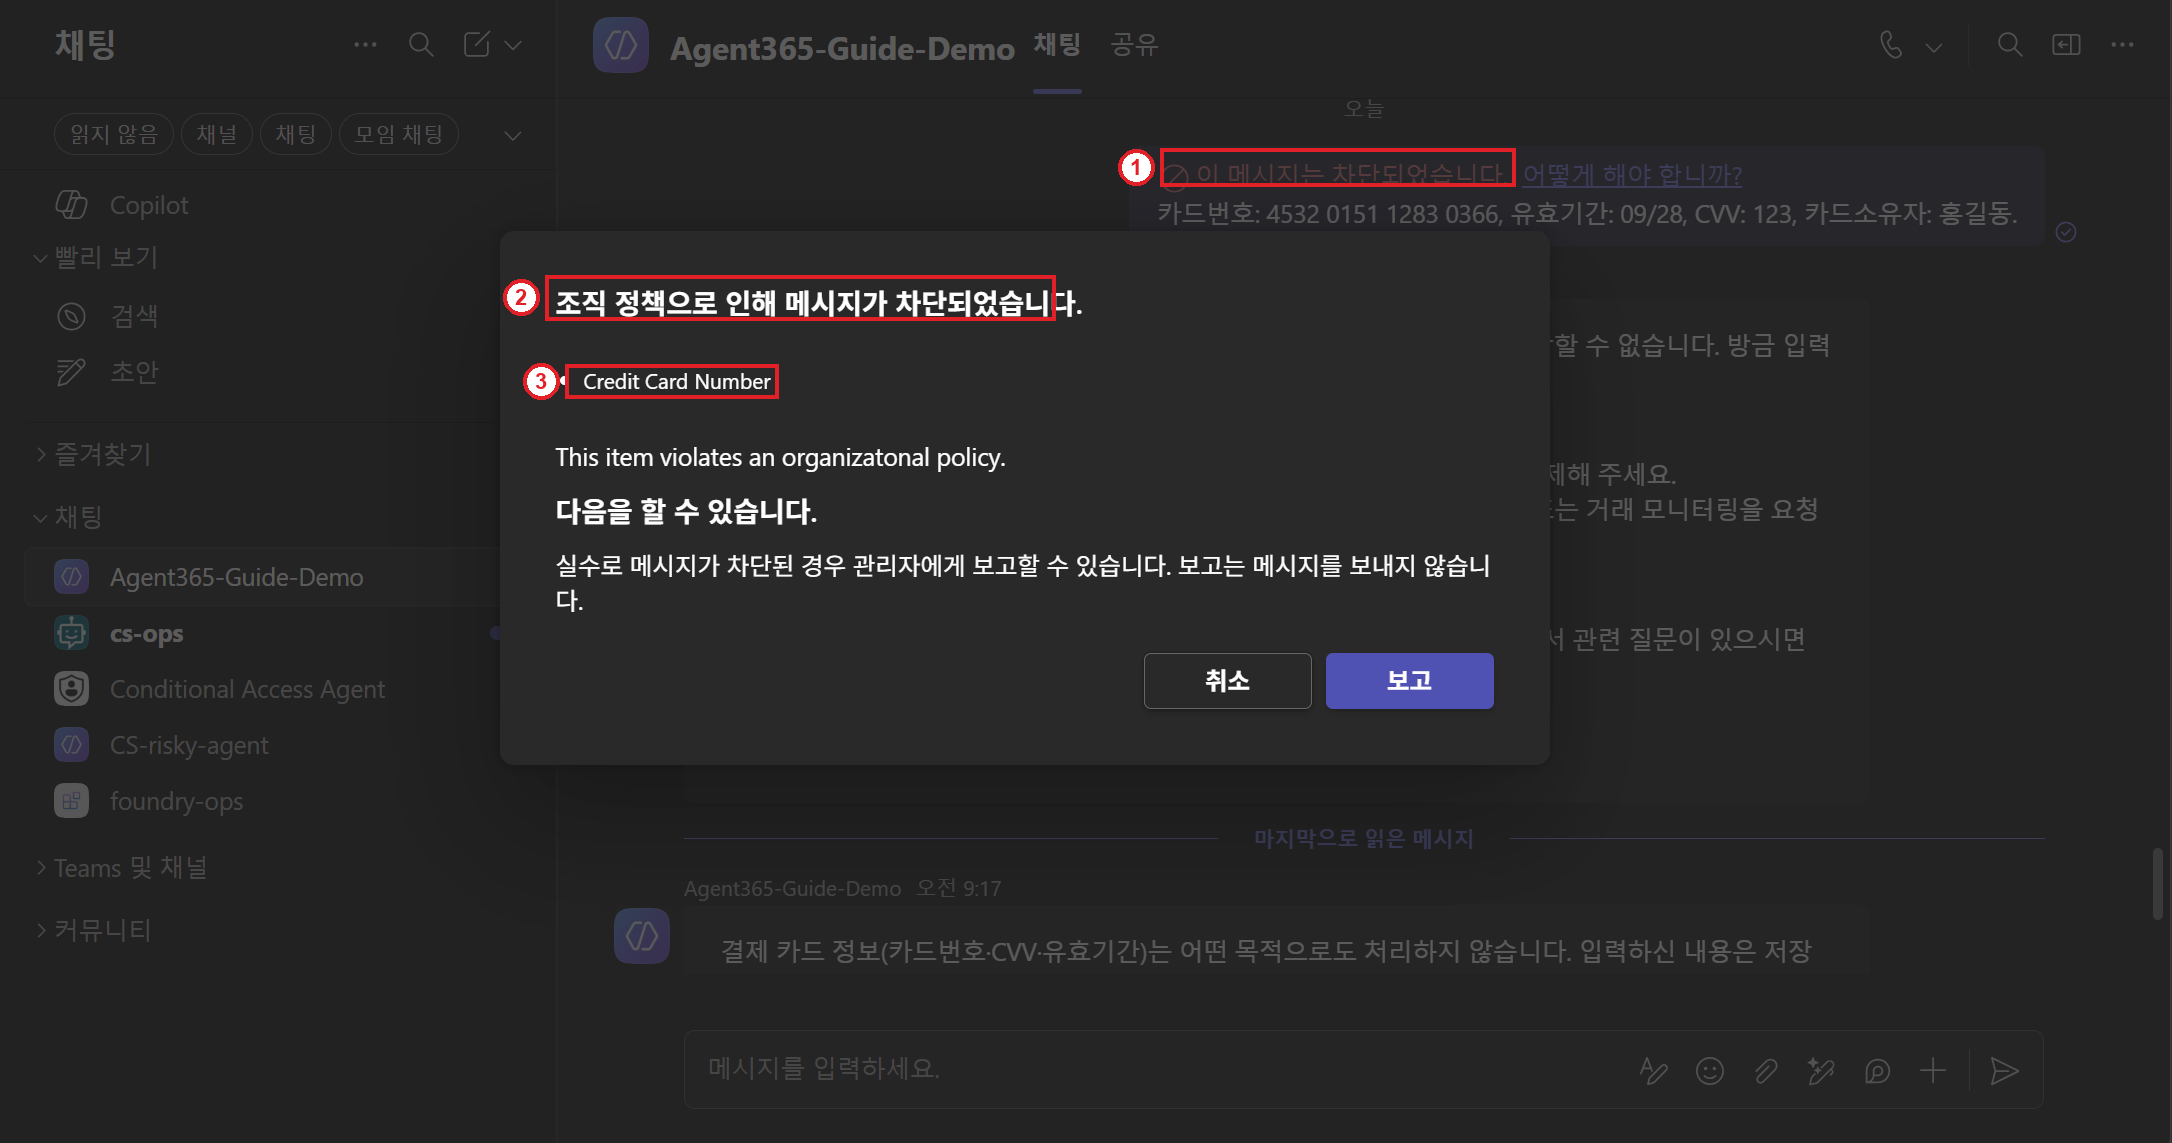
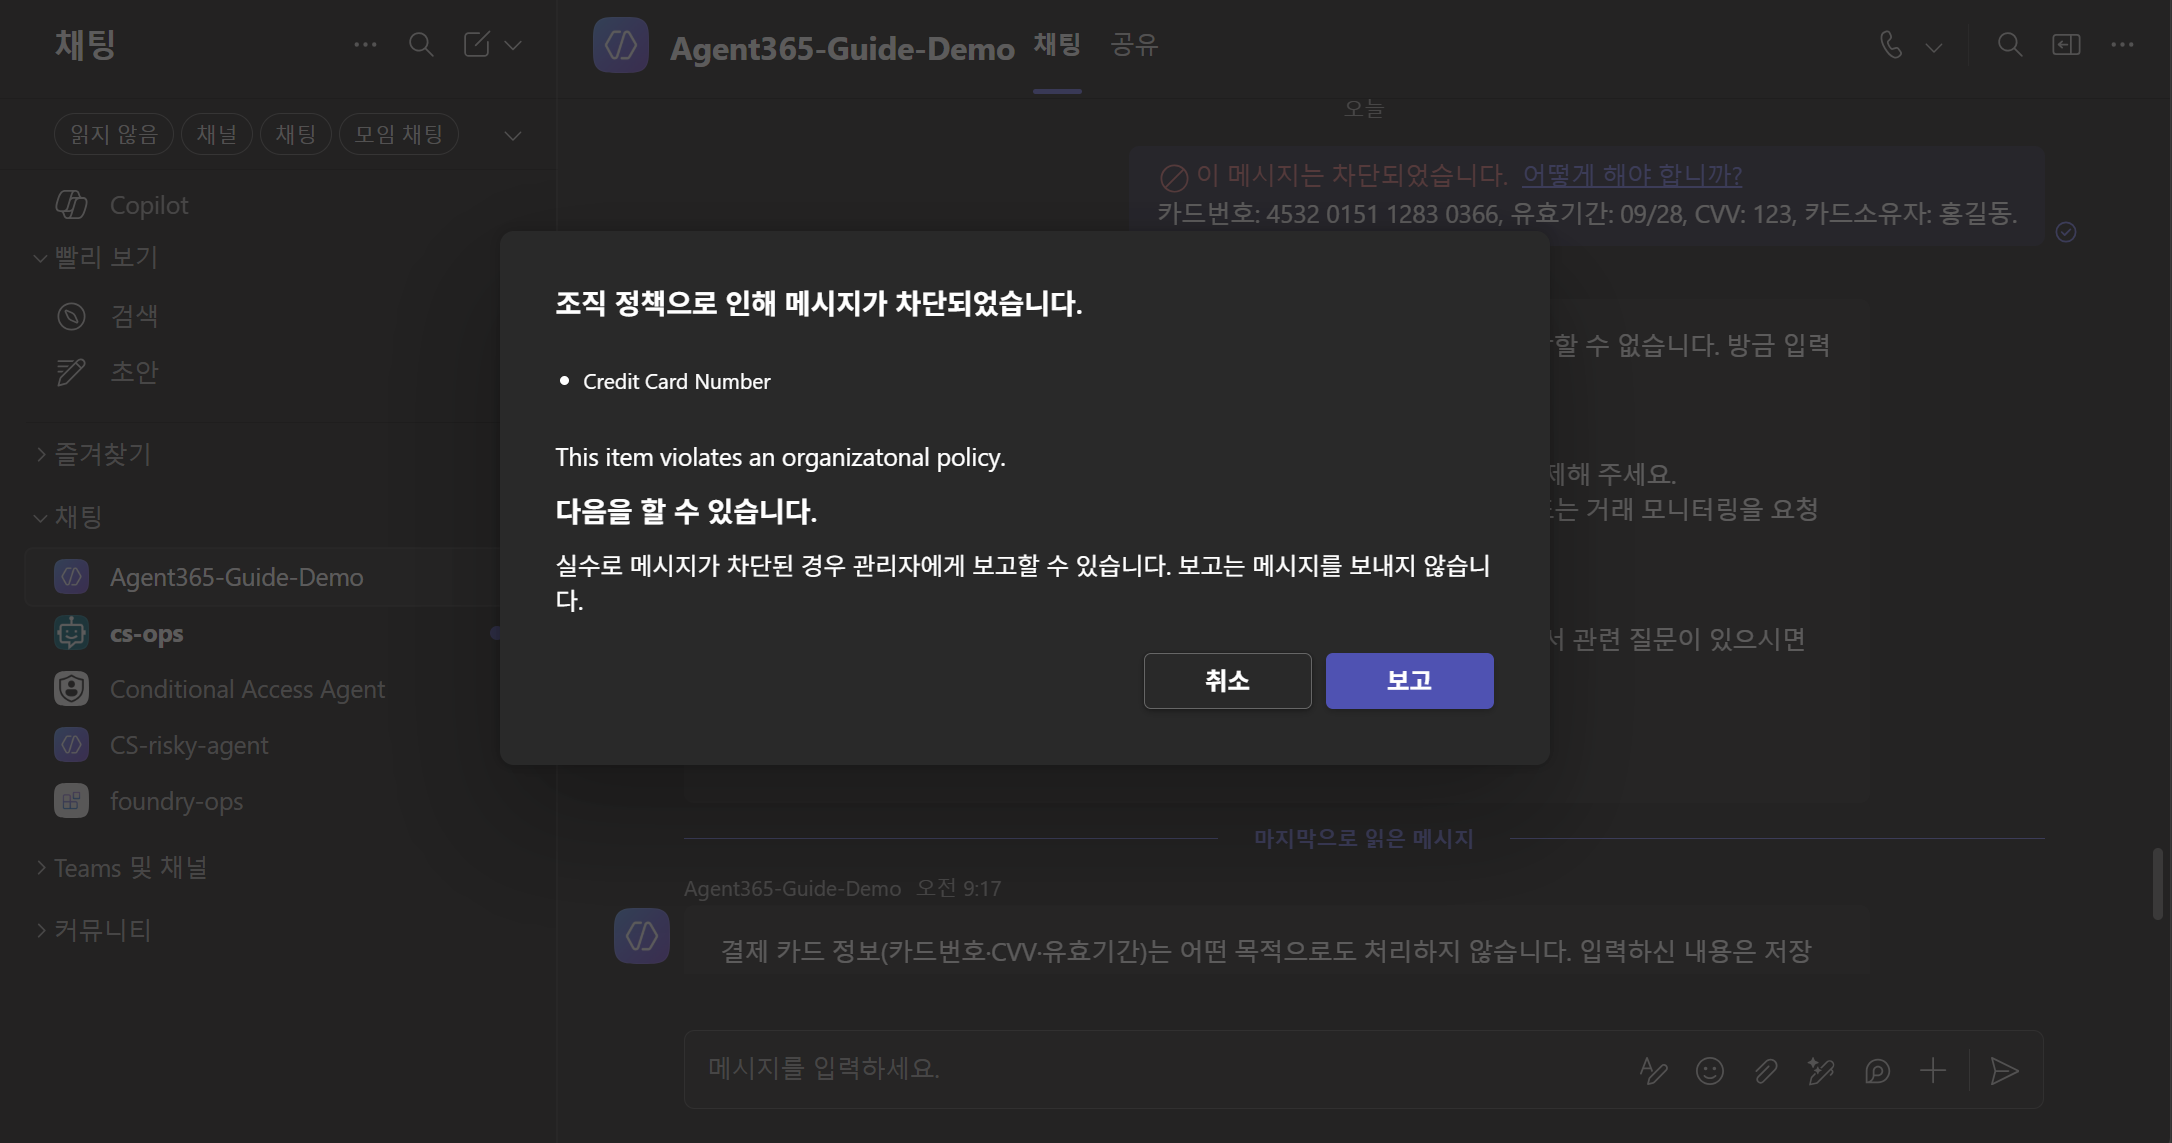
Use raw result captures for DLP/CC evidence; add CC review-queue example
- Replace annotated DLP evidence images with original unannotated captures (result views need no step annotations)
- Remove circled-number references from DLP 2-6/2-7 notes
- Add CC real-behavior example (3-4): review-queue pending item captured via Prompt Shields
- Note classifier/language caveat for Korean harmful-content detection

diff --git a/index.html b/index.html
@@ -554,12 +554,12 @@ html[data-theme="dark"] .xref{color:var(--accent);}
         <div class="fig-title"><span class="fig-num">2-6</span>실제 동작 — Teams 메시지 전송 차단</div>
         <a href="img/dlp-tm-block.png" target="_blank" rel="noopener"><img loading="lazy" src="img/dlp-tm-block.png" alt="실제 동작 — Teams 메시지 전송 차단"></a>
       </figure>
-      <div class="note">데모 에이전트(<code>Agent365-Guide-Demo</code>)가 게시된 Teams 채팅에 <code>Credit Card Number</code> 패턴(테스트용 카드번호)을 보내자, ① <b>메시지가 즉시 차단</b>되고 ② <b>“조직 정책으로 인해 메시지가 차단되었습니다”</b> 안내와 함께 ③ 위반한 SIT <b>Credit Card Number</b>가 표시됩니다. 에이전트에 전달되기 전에 <b>메시지 자체가 전송 차단</b>된 것으로, 에이전트 자체 안전거부와는 구분되는 <b>DLP 계층의 실제 차단</b>입니다.<br><br><span class="hl-note">팁: 맥락(설명 문장) 없이 카드번호만 단독으로 보내면 SIT가 더 정확히 매칭됩니다.</span></div>
+      <div class="note">데모 에이전트(<code>Agent365-Guide-Demo</code>)가 게시된 Teams 채팅에 <code>Credit Card Number</code> 패턴(테스트용 카드번호)을 보내자, <b>메시지가 즉시 차단</b>되고 <b>“조직 정책으로 인해 메시지가 차단되었습니다”</b> 안내와 함께 위반한 SIT <b>Credit Card Number</b>가 표시됩니다. 에이전트에 전달되기 전에 <b>메시지 자체가 전송 차단</b>된 것으로, 에이전트 자체 안전거부와는 구분되는 <b>DLP 계층의 실제 차단</b>입니다.<br><br><span class="hl-note">팁: 맥락(설명 문장) 없이 카드번호만 단독으로 보내면 SIT가 더 정확히 매칭됩니다.</span></div>
       <figure class="fig" id="dlp-tm-alert">
         <div class="fig-title"><span class="fig-num">2-7</span>실제 동작 — Purview DLP 경고 생성</div>
         <a href="img/dlp-tm-alert.png" target="_blank" rel="noopener"><img loading="lazy" src="img/dlp-tm-alert.png" alt="실제 동작 — Purview DLP 경고 생성"></a>
       </figure>
-      <div class="note">차단과 동시에 <code>Purview &gt; 데이터 손실 방지 &gt; 경고</code>에 경고가 생성됩니다. 경고 상세의 <b>정책 세부 정보</b>에서 ① 일치한 정책 <b>Agent365-Guide-DLP-Teams</b>, ② 감지된 중요한 정보 유형 <b>Credit Card Number</b>, ③ 수행한 작업 <b>BlockAccess, GenerateAlert</b>를 확인할 수 있습니다. 즉 <b>차단(BlockAccess)</b>과 <b>경고(GenerateAlert)</b>가 함께 수행되어, 관리자가 실제 위반 이벤트를 사후에 추적할 수 있습니다.</div><h2 class="ov-h step-h" style="margin-top:40px;" id="step-ch5-3">3단계 · 커뮤니케이션 규정 준수 정책 생성</h2>
+      <div class="note">차단과 동시에 <code>Purview &gt; 데이터 손실 방지 &gt; 경고</code>에 경고가 생성됩니다. 경고 상세의 <b>정책 세부 정보</b>에서 일치한 정책 <b>Agent365-Guide-DLP-Teams</b>, 감지된 중요한 정보 유형 <b>Credit Card Number</b>, 수행한 작업 <b>BlockAccess, GenerateAlert</b>를 확인할 수 있습니다. 즉 <b>차단(BlockAccess)</b>과 <b>경고(GenerateAlert)</b>가 함께 수행되어, 관리자가 실제 위반 이벤트를 사후에 추적할 수 있습니다.</div><h2 class="ov-h step-h" style="margin-top:40px;" id="step-ch5-3">3단계 · 커뮤니케이션 규정 준수 정책 생성</h2>
       <figure class="fig" id="s-cc">
         <div class="fig-title"><span class="fig-num">3-1</span>커뮤니케이션 규정 준수 정책 생성 — 정책 템플릿</div>
         <a href="img/cc-template.png" target="_blank" rel="noopener"><img loading="lazy" src="img/cc-template.png" alt="커뮤니케이션 규정 준수 정책 생성 — 정책 템플릿"></a>
@@ -574,7 +574,12 @@ html[data-theme="dark"] .xref{color:var(--accent);}
         <div class="fig-title"><span class="fig-num">3-3</span>커뮤니케이션 규정 준수 정책 생성 — 완료</div>
         <a href="img/cc-done.png" target="_blank" rel="noopener"><img loading="lazy" src="img/cc-done.png" alt="커뮤니케이션 규정 준수 정책 생성 — 완료"></a>
       </figure>
-      <div class="note">커뮤니케이션 규정 준수 정책 생성이 완료됩니다. <b>정책 활성화에 최대 1시간, 통신 캡처(경고 생성)에 최대 24시간</b>이 소요됩니다.</div><h2 class="ov-h step-h" style="margin-top:40px;" id="step-ch5-4">4단계 · IRM 에이전트 정책 생성 및 경고 확인</h2><p style="font-size:14.5px;color:var(--text-soft);margin:0 0 8px;">Purview <b>내부 위험 관리(IRM)</b>에서 에이전트 정책을 만들어 활동 기반 위험 신호를 수집하고 경고를 확인합니다. DLP·CC·IRM은 서로 다른 계층의 신호로, 하나의 에이전트 활동에 대해 <b>세 가지 경고를 교차로 확인</b>할 수 있습니다.</p>
+      <div class="note">커뮤니케이션 규정 준수 정책 생성이 완료됩니다. <b>정책 활성화에 최대 1시간, 통신 캡처(경고 생성)에 최대 24시간</b>이 소요됩니다.</div><h2 class="ov-h step-h" style="margin-top:40px;" id="step-ch5-3v">CC 실제 동작 확인 — 검토 큐 항목</h2><p style="font-size:14.5px;color:var(--text-soft);margin:0 0 8px;">DLP가 <b>차단</b>이라면, 커뮤니케이션 규정 준수(CC)는 <b>탐지·검토</b> 방식입니다. 정책이 매칭한 에이전트 상호작용이 실제로 검토 큐에 어떻게 올라오는지 확인합니다.</p>
+      <figure class="fig" id="cc-result">
+        <div class="fig-title"><span class="fig-num">3-4</span>실제 동작 — 검토 큐(보류 중) 항목</div>
+        <a href="img/cc-result.png" target="_blank" rel="noopener"><img loading="lazy" src="img/cc-result.png" alt="실제 동작 — 검토 큐(보류 중) 항목"></a>
+      </figure>
+      <div class="note">CC는 메시지를 차단하지 않고, 정책이 매칭한 에이전트 상호작용을 <code>정책 &gt; 보류 중(Pending)</code> 큐로 올립니다. 검토자는 항목을 열어 <b>검색된 조건</b>, <b>프롬프트·응답</b>, <b>사용자 활동</b>을 확인하고 <b>해결·에스컬레이션·태그·알림</b>으로 조치합니다. 이 예시 항목은 <b>Prompt Shields</b> 조건으로 탐지되었습니다(적대적 입력 탐지).<br><br><span class="hl-note">참고: 이 정책 템플릿의 분류기는 금융 규정 계열 + Prompt Shields로, 한국어 유해·위협 텍스트를 잡으려면 <b>Threat·Harassment 등 부적절한 텍스트 분류기</b>(한국어 지원)가 포함된 정책을 별도로 구성해야 합니다.</span></div><h2 class="ov-h step-h" style="margin-top:40px;" id="step-ch5-4">4단계 · IRM 에이전트 정책 생성 및 경고 확인</h2><p style="font-size:14.5px;color:var(--text-soft);margin:0 0 8px;">Purview <b>내부 위험 관리(IRM)</b>에서 에이전트 정책을 만들어 활동 기반 위험 신호를 수집하고 경고를 확인합니다. DLP·CC·IRM은 서로 다른 계층의 신호로, 하나의 에이전트 활동에 대해 <b>세 가지 경고를 교차로 확인</b>할 수 있습니다.</p>
       <figure class="fig" id="s50">
         <div class="fig-title"><span class="fig-num">4-1</span>에이전트 정책 생성</div>
         

diff --git a/build2.py b/build2.py
@@ -419,9 +419,9 @@ CH5_NEW_FIGS = [
      '<p style="font-size:14.5px;color:var(--text-soft);margin:0 0 8px;">위에서 만든 <b>DLP-Teams 정책</b>이 실제로 어떻게 작동하는지, 데모 에이전트가 게시된 Teams 채팅에서 '
      '<b>신용카드 번호를 전송</b>해 검증한 결과입니다. 정책 생성만으로 끝나지 않고, 실제 차단 UX와 경고가 어떻게 나타나는지 확인합니다.</p>'),
     ("dlp-tm-block", "2-6", "실제 동작 — Teams 메시지 전송 차단", "img/dlp-tm-block.png",
-     "데모 에이전트(<code>Agent365-Guide-Demo</code>)가 게시된 Teams 채팅에 <code>Credit Card Number</code> 패턴(테스트용 카드번호)을 보내자, ① <b>메시지가 즉시 차단</b>되고 ② <b>“조직 정책으로 인해 메시지가 차단되었습니다”</b> 안내와 함께 ③ 위반한 SIT <b>Credit Card Number</b>가 표시됩니다. 에이전트에 전달되기 전에 <b>메시지 자체가 전송 차단</b>된 것으로, 에이전트 자체 안전거부와는 구분되는 <b>DLP 계층의 실제 차단</b>입니다.<br><br><span class=\"hl-note\">팁: 맥락(설명 문장) 없이 카드번호만 단독으로 보내면 SIT가 더 정확히 매칭됩니다.</span>"),
+     "데모 에이전트(<code>Agent365-Guide-Demo</code>)가 게시된 Teams 채팅에 <code>Credit Card Number</code> 패턴(테스트용 카드번호)을 보내자, <b>메시지가 즉시 차단</b>되고 <b>“조직 정책으로 인해 메시지가 차단되었습니다”</b> 안내와 함께 위반한 SIT <b>Credit Card Number</b>가 표시됩니다. 에이전트에 전달되기 전에 <b>메시지 자체가 전송 차단</b>된 것으로, 에이전트 자체 안전거부와는 구분되는 <b>DLP 계층의 실제 차단</b>입니다.<br><br><span class=\"hl-note\">팁: 맥락(설명 문장) 없이 카드번호만 단독으로 보내면 SIT가 더 정확히 매칭됩니다.</span>"),
     ("dlp-tm-alert", "2-7", "실제 동작 — Purview DLP 경고 생성", "img/dlp-tm-alert.png",
-     "차단과 동시에 <code>Purview &gt; 데이터 손실 방지 &gt; 경고</code>에 경고가 생성됩니다. 경고 상세의 <b>정책 세부 정보</b>에서 ① 일치한 정책 <b>Agent365-Guide-DLP-Teams</b>, ② 감지된 중요한 정보 유형 <b>Credit Card Number</b>, ③ 수행한 작업 <b>BlockAccess, GenerateAlert</b>를 확인할 수 있습니다. 즉 <b>차단(BlockAccess)</b>과 <b>경고(GenerateAlert)</b>가 함께 수행되어, 관리자가 실제 위반 이벤트를 사후에 추적할 수 있습니다."),
+     "차단과 동시에 <code>Purview &gt; 데이터 손실 방지 &gt; 경고</code>에 경고가 생성됩니다. 경고 상세의 <b>정책 세부 정보</b>에서 일치한 정책 <b>Agent365-Guide-DLP-Teams</b>, 감지된 중요한 정보 유형 <b>Credit Card Number</b>, 수행한 작업 <b>BlockAccess, GenerateAlert</b>를 확인할 수 있습니다. 즉 <b>차단(BlockAccess)</b>과 <b>경고(GenerateAlert)</b>가 함께 수행되어, 관리자가 실제 위반 이벤트를 사후에 추적할 수 있습니다."),
 
     ("callout", '<h2 class="ov-h step-h" style="margin-top:40px;" id="step-ch5-3">3단계 · 커뮤니케이션 규정 준수 정책 생성</h2>'),
     ("s-cc", "3-1", "커뮤니케이션 규정 준수 정책 생성 — 정책 템플릿", "img/cc-template.png",
@@ -430,6 +430,13 @@ CH5_NEW_FIGS = [
      "① 감독할 AI 에이전트에서 <b>생성된 에이전트 &gt; Microsoft Copilot Studio</b>를 선택하고, ② <b>검토자</b>를 지정합니다. 커뮤니케이션 규정 준수는 <b>Microsoft 365 Copilot과 Copilot Studio로 만든 에이전트</b>의 프롬프트·응답 상호작용을 분석합니다. 근거: <a class='xref-ext' href='https://learn.microsoft.com/en-us/purview/communication-compliance-copilot' target='_blank' rel='noopener'>생성형 AI 상호작용 탐지 정책(공식 문서)</a>."),
     ("cc-3", "3-3", "커뮤니케이션 규정 준수 정책 생성 — 완료", "img/cc-done.png",
      "커뮤니케이션 규정 준수 정책 생성이 완료됩니다. <b>정책 활성화에 최대 1시간, 통신 캡처(경고 생성)에 최대 24시간</b>이 소요됩니다."),
+
+    ("callout",
+     '<h2 class="ov-h step-h" style="margin-top:40px;" id="step-ch5-3v">CC 실제 동작 확인 — 검토 큐 항목</h2>'
+     '<p style="font-size:14.5px;color:var(--text-soft);margin:0 0 8px;">DLP가 <b>차단</b>이라면, 커뮤니케이션 규정 준수(CC)는 <b>탐지·검토</b> 방식입니다. '
+     '정책이 매칭한 에이전트 상호작용이 실제로 검토 큐에 어떻게 올라오는지 확인합니다.</p>'),
+    ("cc-result", "3-4", "실제 동작 — 검토 큐(보류 중) 항목", "img/cc-result.png",
+     "CC는 메시지를 차단하지 않고, 정책이 매칭한 에이전트 상호작용을 <code>정책 &gt; 보류 중(Pending)</code> 큐로 올립니다. 검토자는 항목을 열어 <b>검색된 조건</b>, <b>프롬프트·응답</b>, <b>사용자 활동</b>을 확인하고 <b>해결·에스컬레이션·태그·알림</b>으로 조치합니다. 이 예시 항목은 <b>Prompt Shields</b> 조건으로 탐지되었습니다(적대적 입력 탐지).<br><br><span class=\"hl-note\">참고: 이 정책 템플릿의 분류기는 금융 규정 계열 + Prompt Shields로, 한국어 유해·위협 텍스트를 잡으려면 <b>Threat·Harassment 등 부적절한 텍스트 분류기</b>(한국어 지원)가 포함된 정책을 별도로 구성해야 합니다.</span>"),
 
     ("callout",
      '<h2 class="ov-h step-h" style="margin-top:40px;" id="step-ch5-4">4단계 · IRM 에이전트 정책 생성 및 경고 확인</h2>'
